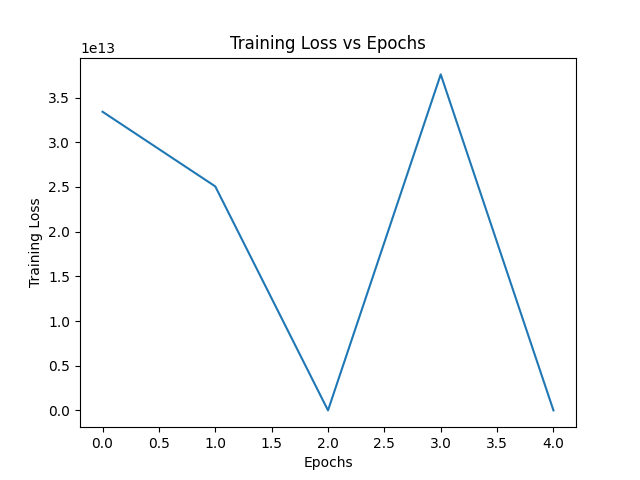
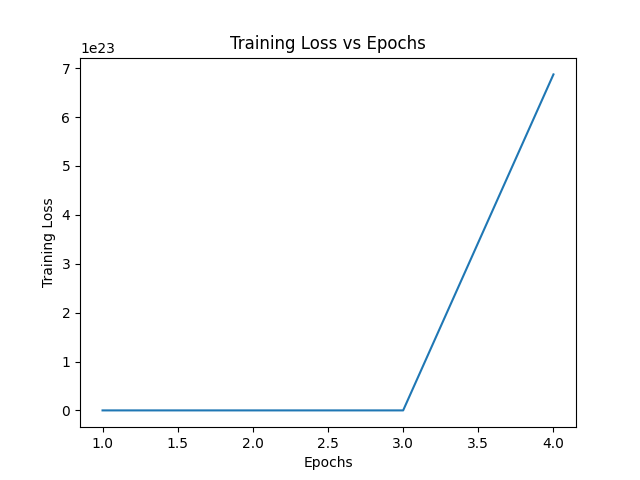
updated metrics

diff --git a/attentionModel.py b/attentionModel.py
@@ -2,8 +2,6 @@
 import torch.nn as nn
 import numpy as np
 import torch
-import torch.functional as F
-
 
 class Encoder(nn.Module):
     """
@@ -54,7 +52,7 @@ class AttnDecoder(nn.Module):
 
         catEmbedding = torch.cat((actionEmbedding, targetEmbedding), 2)
 
-        attn_weights = F.softmax(self.attn(torch.cat((catEmbedding, h_0), 2)), dim=2)
+        attn_weights = nn.functional.softmax(self.attn(torch.cat((catEmbedding, h_0), 2)), dim=2)
         attn_applied = torch.bmm(attn_weights, seed)
 
         attn_output = torch.cat((catEmbedding, attn_applied), 2)
@@ -64,15 +62,6 @@ class AttnDecoder(nn.Module):
 
         outAction = self.fcAction(lstm_out)
         outTarget = self.fcTarget(lstm_out)
-
-        # outTarget = self.fcTarget(targetEmbedding).squeeze(1)
-        # print("OUT TARGET", outTarget)
-        # outAction = self.fcAction(actionEmbedding).squeeze(1)
-        # print("OUT ACTIOn", outAction)
-
-        # outputPair = torch.from_numpy(np.array([np.argmax(outTarget), np.argmax(outAction)]))
-
-        # lstm_out, (hidden_state, c_n) = self.lstm(outputPair, h_0)
 
         return outAction, outTarget, hidden_state, cell_state
 
@@ -124,7 +113,7 @@ class EncoderAttnDecoder(nn.Module):
                     seeds = [torch.argmax(action_outputs[seq_idx-1]), torch.argmax(target_outputs[seq_idx-1])]
                     # seeds = [torch.from_numpy(np.array([np.argmax(outTarget)])), torch.from_numpy(np.array([np.argmax(outAction)]))]
 
-            outAction, outTarget, h_0, c_0 = self.decoder(seeds, h_0, c_0)
+            outAction, outTarget, h_0, c_0 = self.attnDecoder(seeds, h_0, c_0)
             action_outputs[:, seq_idx, :] = outAction.squeeze()
             target_outputs[:, seq_idx, :] = outTarget.squeeze()
 

diff --git a/train_attention.py b/train_attention.py
@@ -4,7 +4,7 @@ import argparse
 from sklearn.metrics import accuracy_score
 import json
 import numpy as np
-from model import EncoderDecoder
+from attentionModel import EncoderAttnDecoder
 import matplotlib.pyplot as plt
 
 from utils import (
@@ -170,7 +170,7 @@ def setup_model(args, vocab_size, t2i, a2i, embedding_dim, hidden_dim):
     # of feeding the model prediction into the recurrent model,
     # you will give the embedding of the target token.
     # ===================================================== #
-    model = EncoderDecoder(vocab_size, t2i, a2i, embedding_dim, hidden_dim)
+    model = EncoderAttnDecoder(vocab_size, t2i, a2i, embedding_dim, hidden_dim)
     return model
 
 

diff --git a/utils.py b/utils.py
@@ -102,7 +102,14 @@ def prefix_match(predicted_labels, gt_labels):
 
 def total_match_proportion(predicted_labels, gt_labels):
 
-    preds_set = set(predicted_labels)
-    gt_set = set(gt_labels)
+
+    preds_set = set()
+    gt_set = set()
+
+    for i in range(len(gt_labels)):
+        preds_set.add(predicted_labels[i][0].item())
+        preds_set.add(predicted_labels[i][1].item())
+        gt_set.add(gt_labels[i][0].item())
+        gt_set.add(gt_labels[i][1].item())
 
     return len(preds_set.intersection(gt_set))/len(gt_set)
